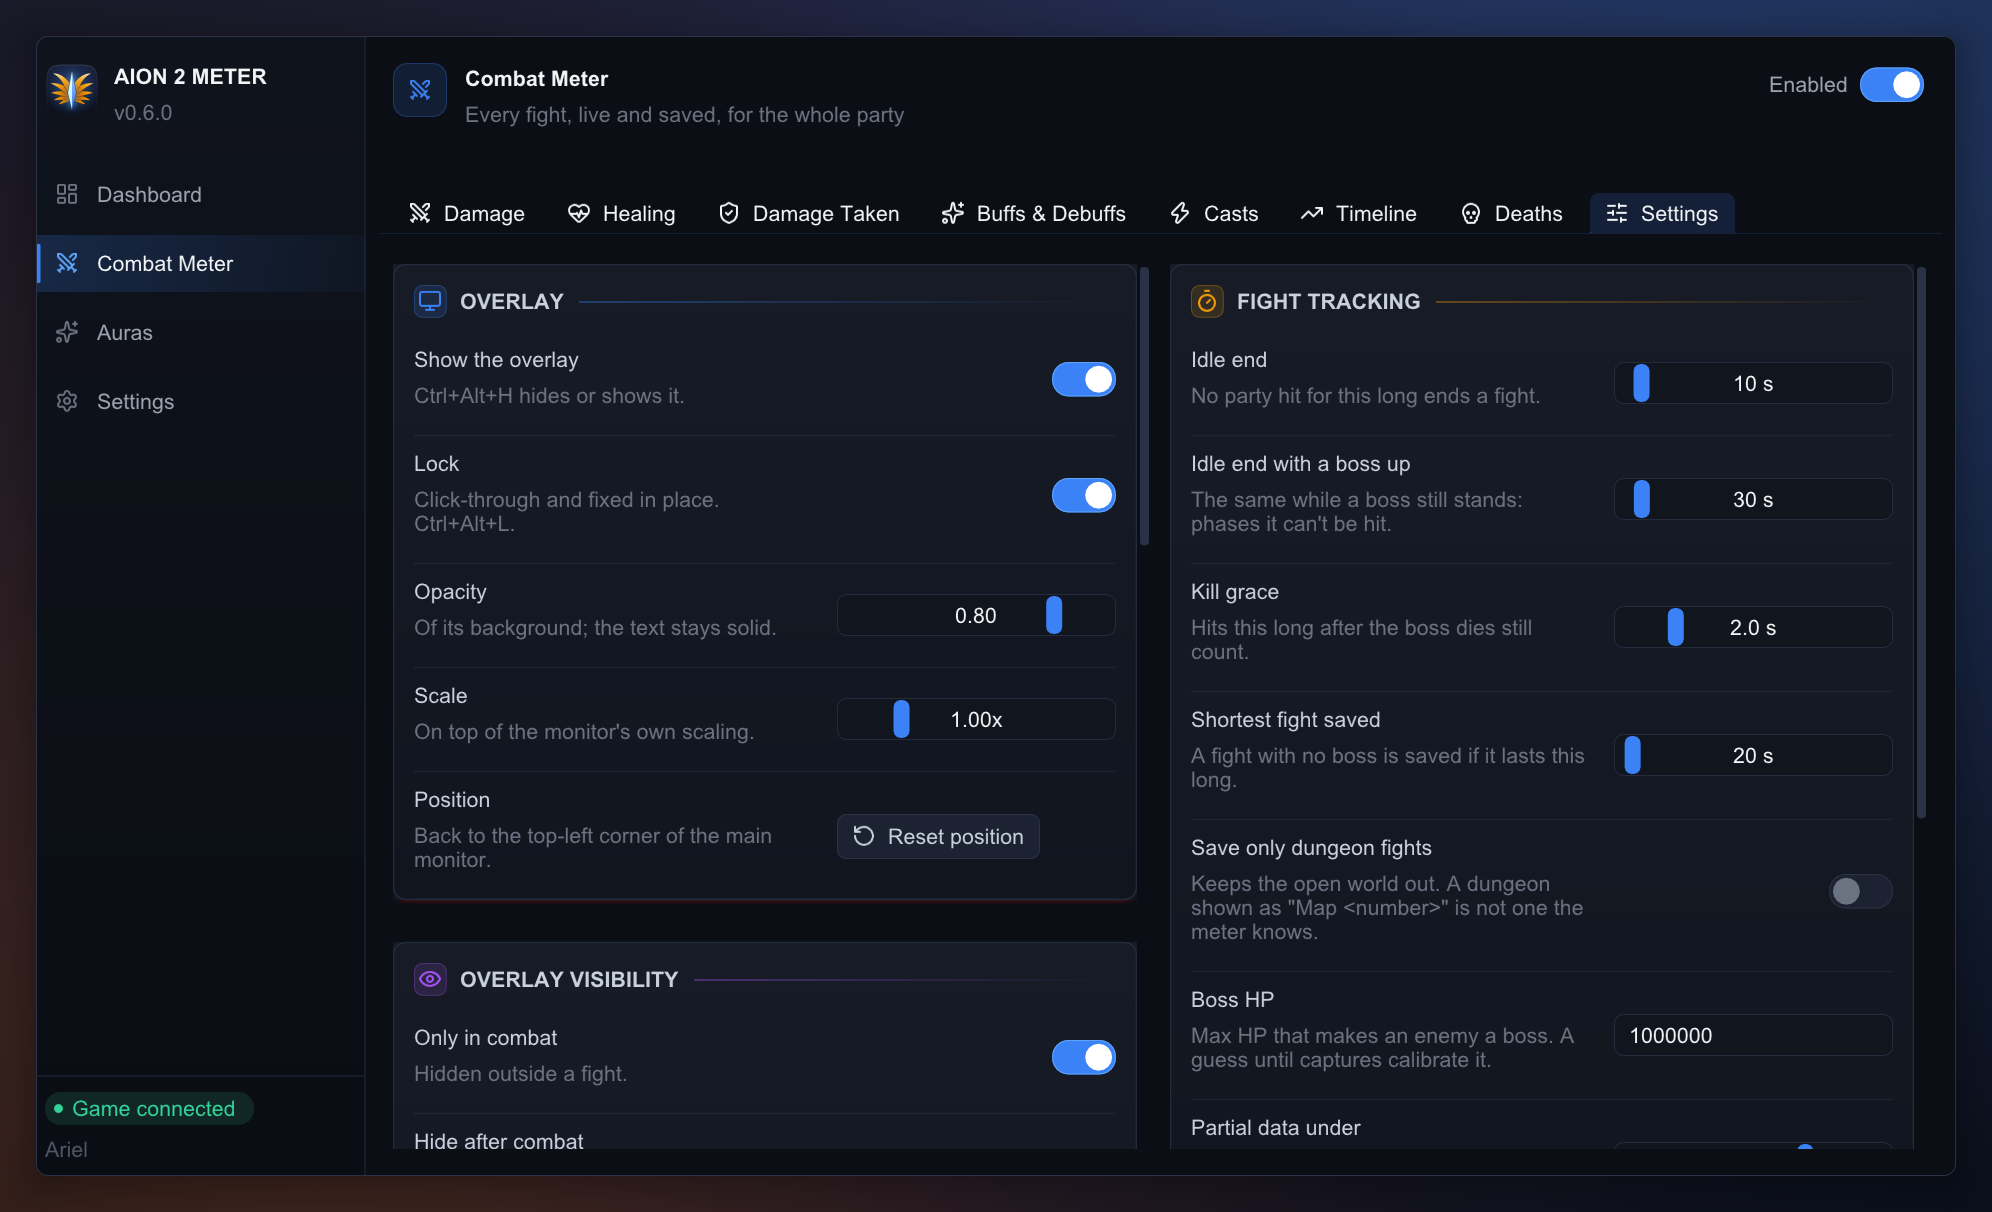
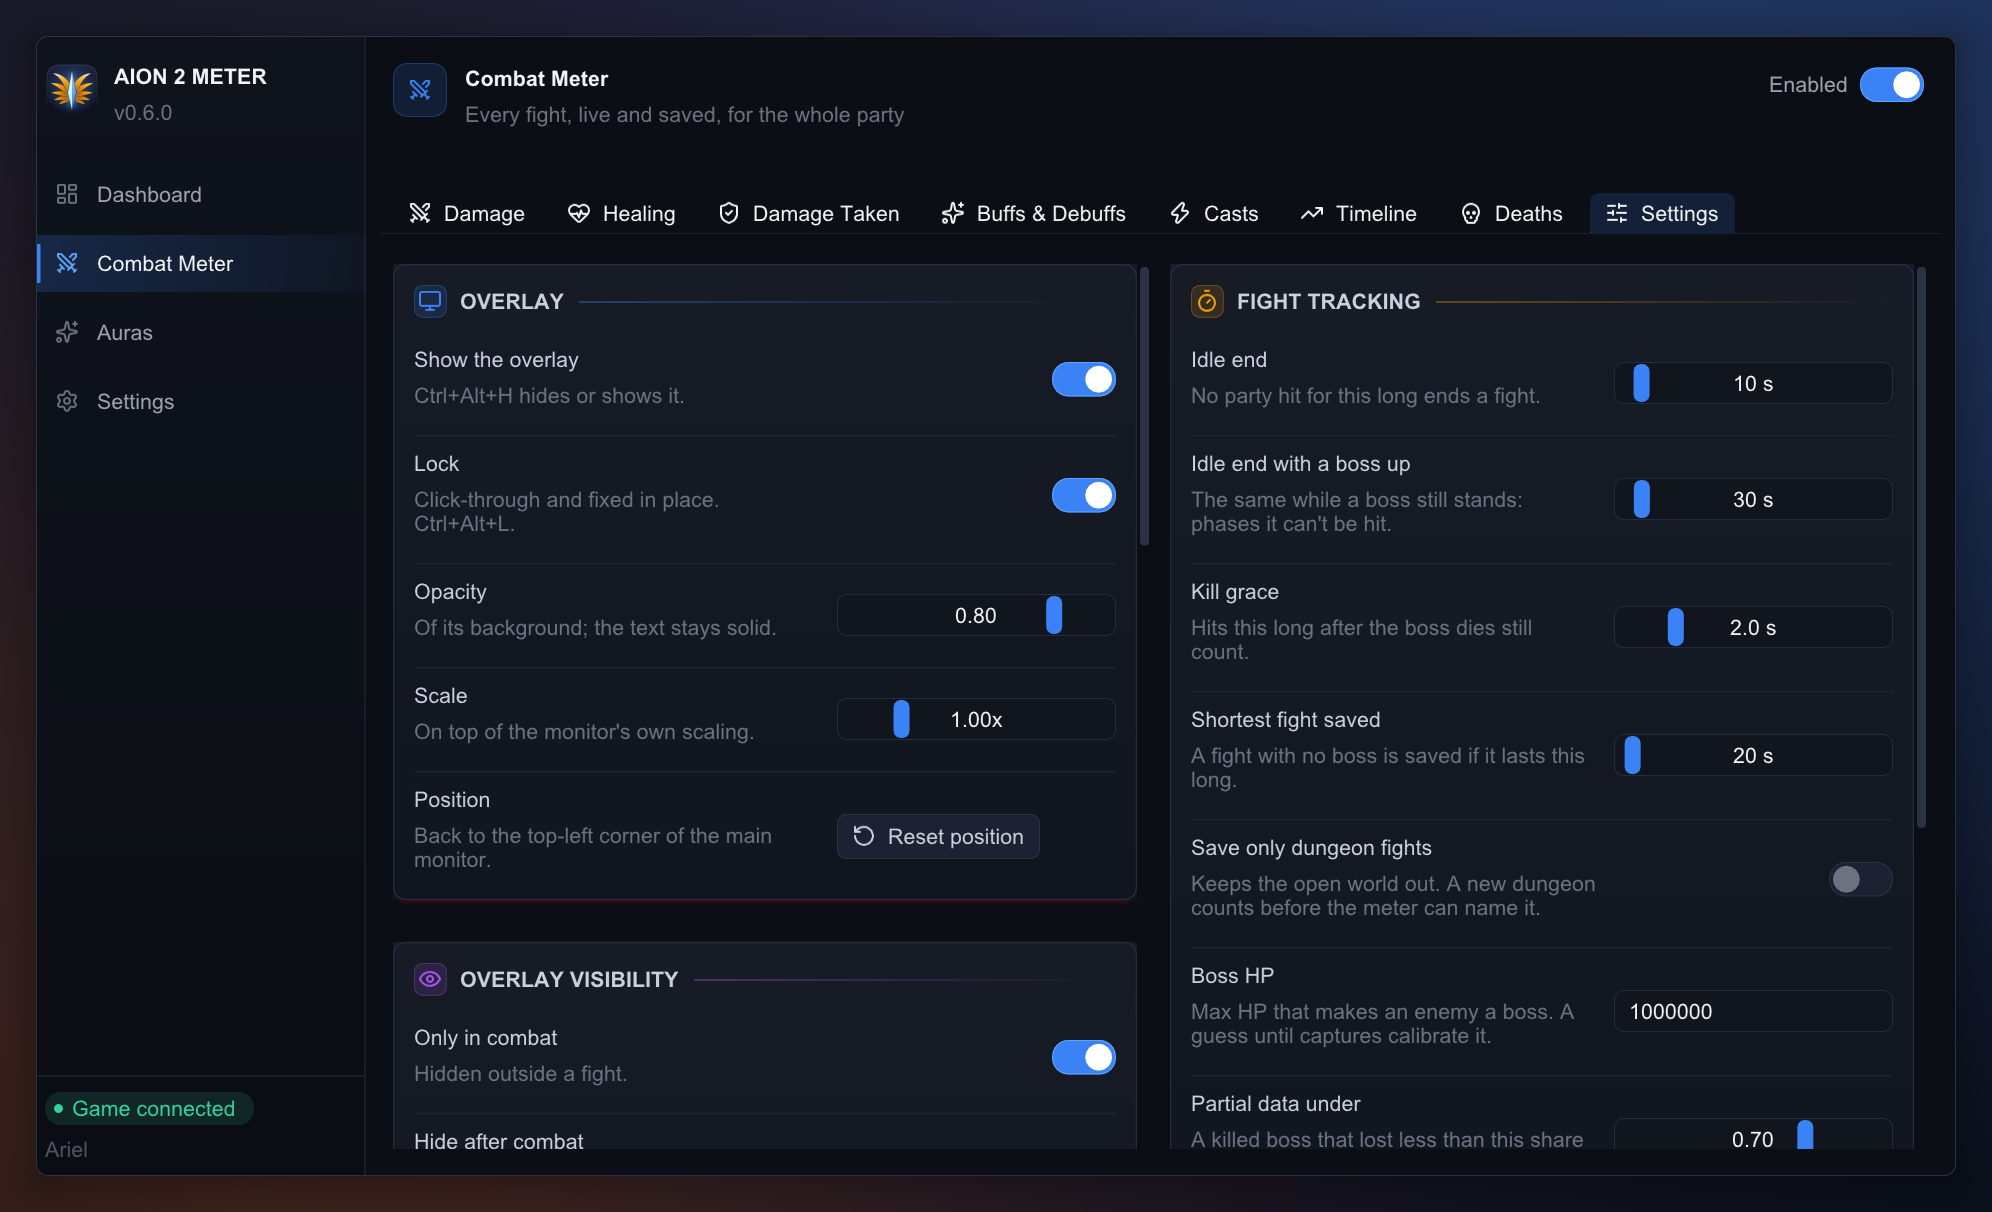
fix(game): a new dungeon counts as one before the meter can name it (#9)

diff --git a/tools/gen_map_table.py b/tools/gen_map_table.py
@@ -52,7 +52,7 @@ def hand_section(path):
 
 
 def ids_by_hand(path):
-    """The ids in the TSV's "# By hand" section: maps from captures, not dungeons."""
+    """The ids in the TSV's "# By hand" section, whose names the import leaves alone."""
     return {int(line.split("\t")[0]) for line in hand_section(path).splitlines() if line[:1].isdigit()}
 
 
@@ -107,9 +107,9 @@ def import_pages(folder):
     hand = hand_section(TSV)  # read before the TSV is truncated below
     with open(TSV, "w", encoding="utf-8", newline="\n") as f:
         f.write(
-            "# AION 2 map names by map id, as the map load (21 36) carries it. By the\n"
-            "# community's notes ids 600000 to 700000 are instances; the Awakening tiers\n"
-            "# here sit at 910000 and up.\n"
+            "# AION 2 map names by map id, as the map load (21 36) carries it. Names only:\n"
+            "# whether a map is a dungeon goes by its id (600000 and up, game::is_dungeon),\n"
+            "# so a dungeon missing here still counts as one.\n"
             "#\n"
             f"# Source: aion2.app's dungeon pages (aion2.app/db/dungeons/<name>), retrieved\n"
             f"# {today}: one row per difficulty tier, keyed by the tier's id. Checked once:\n"
@@ -117,7 +117,7 @@ def import_pages(folder):
             "# was, so the tier ids are the ids 21 36 carries. No second source gives tier\n"
             "# ids to compare with. Some dungeons the site lists have no tier ids on their\n"
             "# pages (the Lv.99 Awakening tiers, Ascension, Legion and more): they show as\n"
-            "# \"Map <id>\" until a capture shows their id.\n"
+            "# \"Dungeon <id>\" until a capture shows their id.\n"
             "#\n"
             "# Open-world zones have no public ids. The game's own files cannot be read for\n"
             "# them (they are encrypted), and no site lists numeric ids for open-world maps.\n"
@@ -131,16 +131,14 @@ def import_pages(folder):
     print(f"wrote {len(rows)} map names to {os.path.relpath(TSV, ROOT)}")
 
 
-def render_inc(rows, hand_ids):
+def render_inc(rows):
     lines = [
         "// Generated by tools/gen_map_table.py from src/game/data/maps.tsv.",
         "// Do not edit: change the TSV and run the script.",
-        "// {map id, name, dungeon}, sorted by id for a binary search. A dungeon is a row",
-        "// above the TSV's \"# By hand\" line: aion2.app's dungeon tiers.",
+        "// {map id, name}, sorted by id for a binary search.",
     ]
     for map_id, name in sorted(rows.items()):
-        dungeon = "false" if map_id in hand_ids else "true"
-        lines.append(f"{{{map_id}u, {c_string(name)}, {dungeon}}},")
+        lines.append(f"{{{map_id}u, {c_string(name)}}},")
     return "\n".join(lines) + "\n"
 
 
@@ -151,7 +149,7 @@ def main():
     args = ap.parse_args()
     if args.import_pages:
         import_pages(args.import_pages)
-    text = render_inc(read_tsv(TSV), ids_by_hand(TSV))
+    text = render_inc(read_tsv(TSV))
     if args.check:
         with open(INC, encoding="utf-8") as f:
             if f.read() != text:

diff --git a/src/game/include/game/map_names.hpp b/src/game/include/game/map_names.hpp
@@ -6,18 +6,24 @@
 
 namespace aion2::game {
 
+/// Map ids from here up are instances. Every dungeon tier known sits there
+/// (600001 to 690046, and the Awakening tiers at 910011 and up), and the one
+/// open-world id a capture has shown is the town's, 1010.
+inline constexpr uint32_t kFirstInstanceMapId = 600000;
+
 /// The map's English name, from src/game/data/maps.tsv: a dungeon tier's id as
 /// aion2.app lists it ("Krao Cave (Conquest)"), or a row added from a capture.
 /// Empty for an id not listed, which today is every open-world zone.
 [[nodiscard]] std::string_view map_name(uint32_t map_id) noexcept;
 
-/// The name, or "Map <id>" for an id not in the table, or "Unknown map" for 0 (no map
-/// load seen yet).
+/// The name; for an id not in the table, "Dungeon <id>" or "Map <id>" (is_dungeon);
+/// "Unknown map" for 0 (no map load seen yet).
 [[nodiscard]] std::string map_label(uint32_t map_id);
 
-/// One of maps.tsv's dungeon tiers (the rows above its "# By hand" line). False for
-/// the rows added by hand, for ids not listed (every open-world zone, the Abyss,
-/// battlefields), and for 0.
+/// Whether the map is a dungeon, by its id alone (kFirstInstanceMapId), never by the
+/// table: a dungeon a patch adds is one before the meter can name it. An arena or
+/// battlefield up there would count too, which is the side to err on: nothing hides
+/// in a real dungeon. False for 0.
 [[nodiscard]] bool is_dungeon(uint32_t map_id) noexcept;
 
 } // namespace aion2::game

diff --git a/src/app/src/ui/view_meter.cpp b/src/app/src/ui/view_meter.cpp
@@ -715,7 +715,7 @@ void visibility_card(const AppFrameInput& in, AppActions& out) {
     if (!o.show_in_combat_only) ImGui::EndDisabled();
     setting_switch("Hide when the game is not in front", "Hidden while another program has the focus.",
                    &o.hide_when_game_unfocused, out);
-    setting_switch("Only in dungeons", "Hidden in the open world, and on maps the meter can't name.",
+    setting_switch("Only in dungeons", "Hidden in the open world. A new dungeon counts before the meter can name it.",
                    &o.show_in_dungeons_only, out);
     if (!o.locked) ImGui::EndDisabled();
     ImGui::Dummy(ImVec2(0.0f, m(2.0f)));
@@ -760,7 +760,7 @@ void tracking_card(const AppFrameInput& in, AppActions& out) {
     setting_slider("Shortest fight saved", "A fight with no boss is saved if it lasts this long.",
                    &s.min_saved_duration_s, 0.0, 600.0, "%.0f s", out, Applies::Engine);
     setting_switch("Save only dungeon fights",
-                   "Keeps the open world out. A dungeon shown as \"Map <number>\" is not one the meter knows.",
+                   "Keeps the open world out. A new dungeon counts before the meter can name it.",
                    &s.save_only_dungeons, out, Applies::Engine);
 
     begin_setting_row("Boss HP", "Max HP that makes an enemy a boss. A guess until captures calibrate it.");

diff --git a/tests/test_map_names.cpp b/tests/test_map_names.cpp
@@ -31,12 +31,26 @@ TEST_CASE(MapNames, AOneTierPageKeepsItsOwnName) {
     TEST_ASSERT_EQ(std::string(map_name(910064)), std::string("Chamber of the Dead (Challenge)"));
 }
 
-TEST_CASE(MapNames, DungeonsAreTheImportedTiers) {
+TEST_CASE(MapNames, ADungeonGoesByItsIdNotTheTable) {
     TEST_ASSERT(is_dungeon(600001));
     TEST_ASSERT(is_dungeon(910064));
-    // Open-world zones are not listed, and 0 is no map load seen yet.
+    // A tier a patch added, which the table cannot name yet: a dungeon all the same.
+    TEST_ASSERT(map_name(600003).empty());
+    TEST_ASSERT(is_dungeon(600003));
+    TEST_ASSERT(map_name(910099).empty());
+    TEST_ASSERT(is_dungeon(910099));
+    TEST_ASSERT(is_dungeon(kFirstInstanceMapId));
+    // The open world (the second capture's town was 1010), and no map load seen yet.
+    TEST_ASSERT_FALSE(is_dungeon(kFirstInstanceMapId - 1));
     TEST_ASSERT_FALSE(is_dungeon(400001));
+    TEST_ASSERT_FALSE(is_dungeon(1010));
     TEST_ASSERT_FALSE(is_dungeon(0));
+}
+
+TEST_CASE(MapNames, AnUnnamedDungeonSaysItIsOne) {
+    TEST_ASSERT_EQ(map_label(600003), std::string("Dungeon 600003"));
+    TEST_ASSERT_EQ(map_label(910099), std::string("Dungeon 910099"));
+    TEST_ASSERT_EQ(map_label(1010), std::string("Map 1010"));
 }
 
 TEST_CASE(MapNames, UnlistedIdsHaveALabel) {

diff --git a/src/game/src/map_names.cpp b/src/game/src/map_names.cpp
@@ -10,7 +10,6 @@ namespace {
 struct MapRow {
     uint32_t id;
     const char* name;
-    bool dungeon;
 };
 
 constexpr MapRow kMaps[] = {
@@ -30,16 +29,13 @@ std::string_view map_name(uint32_t map_id) noexcept {
     return row != nullptr ? std::string_view(row->name) : std::string_view();
 }
 
-bool is_dungeon(uint32_t map_id) noexcept {
-    const MapRow* row = find(map_id);
-    return row != nullptr && row->dungeon;
-}
+bool is_dungeon(uint32_t map_id) noexcept { return map_id >= kFirstInstanceMapId; }
 
 std::string map_label(uint32_t map_id) {
     if (map_id == 0) return "Unknown map";
     const std::string_view name = map_name(map_id);
     if (!name.empty()) return std::string(name);
-    return "Map " + std::to_string(map_id);
+    return (is_dungeon(map_id) ? "Dungeon " : "Map ") + std::to_string(map_id);
 }
 
 } // namespace aion2::game

diff --git a/tests/test_meter_engine.cpp b/tests/test_meter_engine.cpp
@@ -590,6 +590,19 @@ TEST_CASE(Engine, OutOfAPartyTheOpenWorldCountsOnlyYou) {
     e.on_event(ev(at_s(31), npc(kAdd, 50'000, 778)));
     e.on_event(ev(at_s(32), hit(kStranger, kAdd, 900)));
     TEST_ASSERT_FALSE(e.in_fight());
+
+    // An Awakening tier (910000 and up) is a dungeon too, and so is one the map
+    // table cannot name yet.
+    double t = 40;
+    uint32_t load = 4;
+    for (const uint32_t map : {910064u, 910099u}) {
+        e.on_event(ev(at_s(t), proto::MapLoad{load++, map}));
+        e.on_event(ev(at_s(t + 1), npc(kBoss, kBossHp, 777)));
+        e.on_event(ev(at_s(t + 2), hit(kMe, kBoss, 100)));
+        e.on_event(ev(at_s(t + 3), hit(kStranger, kBoss, 900)));
+        TEST_ASSERT_EQ(e.current().combatants.size(), size_t{2});
+        t += 10;
+    }
 }
 
 TEST_CASE(Engine, APlayerToPlayerRecordOffThePartyIsNoHeal) {

diff --git a/tools/replay/report.cpp b/tools/replay/report.cpp
@@ -166,7 +166,7 @@ void Report::on_event(const proto::ParsedEvent& pe, const meter::CombatantRegist
                 std::printf("%+.3f  death     %s\n", t, who(e.id, reg).c_str());
             } else if constexpr (std::is_same_v<T, proto::MapLoad>) {
                 std::printf("%+.3f  map       %u%s (load %u)%s connection %u\n", t, e.map_id,
-                            map_suffix(e.map_id).c_str(), e.load_count, e.is_instance() ? " instance" : "",
+                            map_suffix(e.map_id).c_str(), e.load_count, game::is_dungeon(e.map_id) ? " instance" : "",
                             pe.connection);
             } else if constexpr (std::is_same_v<T, proto::Damage>) {
                 std::printf("%+.3f  damage    %s -> %s %" PRIu64, t, who(e.actor, reg).c_str(),

diff --git a/plugins/combat_meter/include/meter/meter_settings.hpp b/plugins/combat_meter/include/meter/meter_settings.hpp
@@ -22,8 +22,9 @@ struct MeterSettings {
     uint64_t boss_min_max_hp{1'000'000};
     /// Fights without a boss are saved when at least this long.
     double min_saved_duration_s{20.0};
-    /// Save only fights in a dungeon (is_dungeon): none in the open world, or before
-    /// the first map load.
+    /// Save only fights in a dungeon (is_dungeon, which goes by the map's id, so one
+    /// the meter cannot name counts): none in the open world, or before the first
+    /// map load.
     bool save_only_dungeons{false};
     /// A killed boss that lost less than this share of its HP (by the server's HP
     /// figures) with hits we saw makes the fight's data partial.

diff --git a/plugins/combat_meter/include/meter/combatant_registry.hpp b/plugins/combat_meter/include/meter/combatant_registry.hpp
@@ -109,8 +109,8 @@ public:
     void on_skill_class(EntityId player, AionClass cls);
     /// A map load, the same map again included when it is a new run of a dungeon:
     /// NPCs, summons and inferred sides go; players stay, stale, since a new
-    /// instance has ids of its own. `instance` (proto::MapLoad::is_instance) says
-    /// who counts with no roster.
+    /// instance has ids of its own. `instance` (game::is_dungeon) says who counts
+    /// with no roster.
     void on_map_change(bool instance);
     /// The map loaded again within one run (a teleport, a revive): NPCs stay, and
     /// players go stale, in case they have new ids.

diff --git a/src/app/src/ui/view_auras.cpp b/src/app/src/ui/view_auras.cpp
@@ -123,7 +123,7 @@ void visibility_card(const AppFrameInput& in, AppActions& out) {
     if (!a.locked) ImGui::BeginDisabled();
     setting_switch("Hide when the game is not in front", "Hidden while another program has the focus.",
                    &a.hide_when_game_unfocused, out);
-    setting_switch("Only in dungeons", "Hidden in the open world, and on maps the meter can't name.",
+    setting_switch("Only in dungeons", "Hidden in the open world. A new dungeon counts before the meter can name it.",
                    &a.show_in_dungeons_only, out);
     if (!a.locked) ImGui::EndDisabled();
     ImGui::Dummy(ImVec2(0.0f, m(2.0f)));

diff --git a/plugins/combat_meter/src/encounter_engine.cpp b/plugins/combat_meter/src/encounter_engine.cpp
@@ -1,5 +1,6 @@
 #include "meter/encounter_engine.hpp"
 
+#include "game/map_names.hpp"
 #include "game/npc_names.hpp"
 #include "game/skill_names.hpp"
 
@@ -436,7 +437,7 @@ void EncounterEngine::on_map(const proto::MapLoad& m, uint32_t connection, Micro
     m_effects.on_map_load(ts);
     m_map_id = m.map_id;
     m_visit_ts = ts;
-    m_registry.on_map_change(m.is_instance());
+    m_registry.on_map_change(game::is_dungeon(m.map_id));
     m_damage_since_spawn.clear();
     m_hp_loss.clear();
     m_held_casts.clear();

diff --git a/tests/test_history.cpp b/tests/test_history.cpp
@@ -299,6 +299,9 @@ TEST_CASE(History, WorthSavingOnlyInDungeons) {
     s.save_only_dungeons = true;
     f.map_id = dungeon;
     TEST_ASSERT(worth_saving(f, s));
+    // A dungeon newer than the map table has no name, and is saved all the same.
+    f.map_id = 600003;
+    TEST_ASSERT(worth_saving(f, s));
     f.map_id = open_world;
     TEST_ASSERT_FALSE(worth_saving(f, s));
     // No map load seen yet: not known to be a dungeon.
